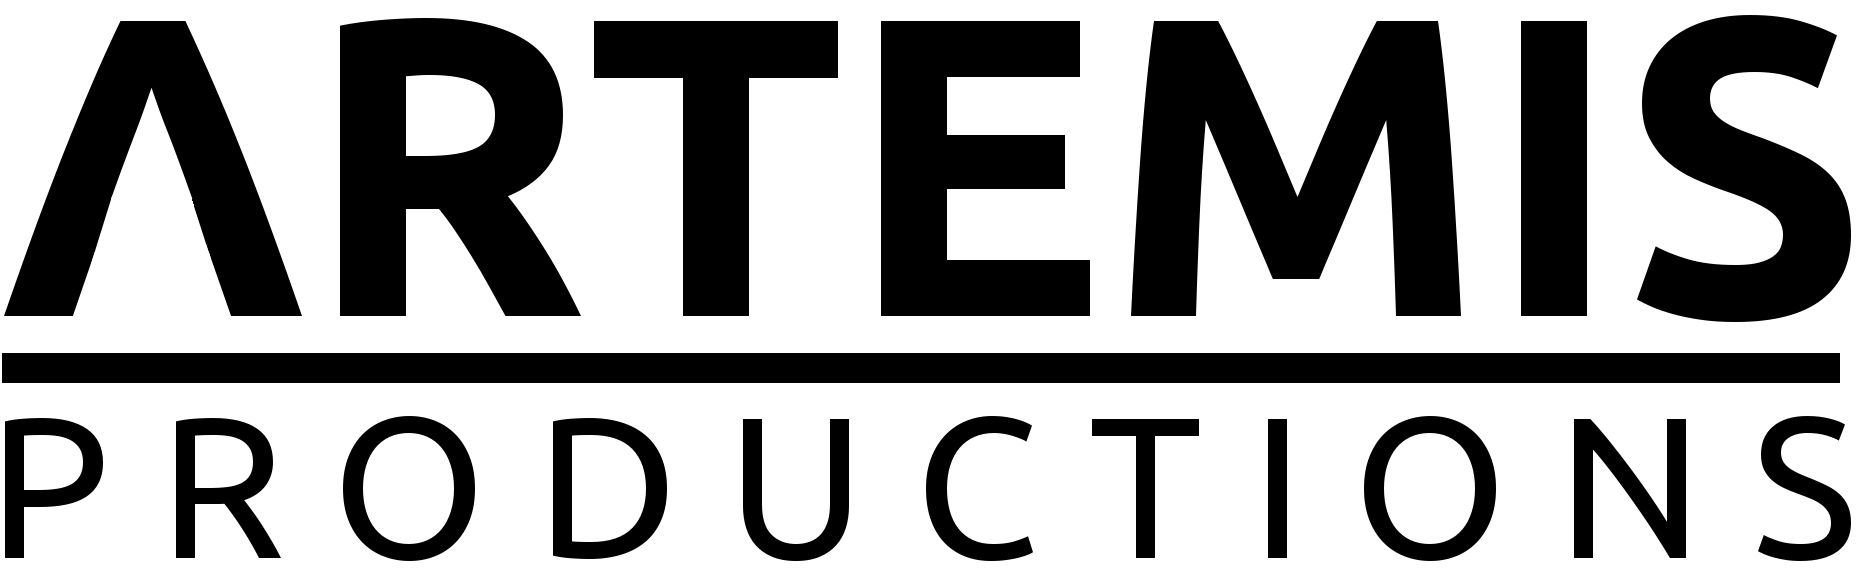
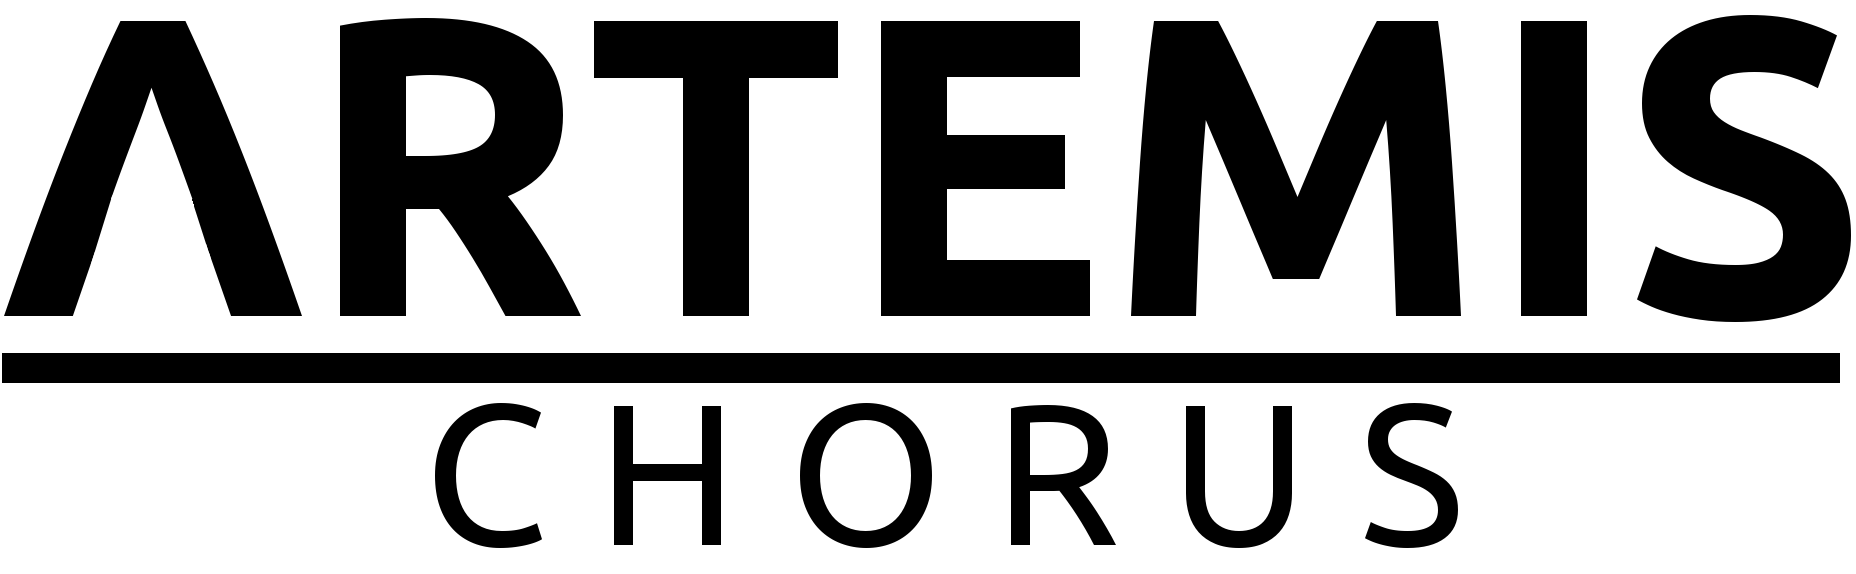
move to choir

diff --git a/_includes/header.html b/_includes/header.html
@@ -14,11 +14,8 @@
       </a>
 
       <div class="trigger">
-        {% for my_page in site.pages %}
-          {% if my_page.title %}
-          <a class="page-link" href="{{ my_page.url | prepend: site.baseurl }}">{{ my_page.title }}</a>
-          {% endif %}
-        {% endfor %}
+        <a class="page-link" href="/about">About</a>
+        <a class="page-link" href="/concerts">Concerts</a>
       </div>
     </nav>
 

diff --git a/css/main.scss b/css/main.scss
@@ -15,7 +15,7 @@ $base-line-height: 1.5;
 $spacing-unit:     30px;
 
 $text-color:       #111;
-$background-color: #fdfdfd;
+$background-color: #fcfcfc;
 $brand-color:      #2a7ae2;
 
 $grey-color:       #828282;

diff --git a/concerts/1.md b/concerts/1.md
@@ -1,0 +1,13 @@
+---
+layout: page
+title: The First Concert
+---
+
+## Program
+
+* Daniel Pinkham --- [*Easter Cantata - This is the day*](https://youtu.be/QV5JRnP49F0?t=40s)
+* Benjamin Britten --- [*Festival Te Deum*](https://www.youtube.com/watch?v=GDdJFW9DOHg)
+* Madison Scott-Clary --- [*I Live My Life*](https://soundcloud.com/drabmakyo/i-live-my-life)
+* Ildebrando Pizzetti --- [*De Profundis*](https://www.youtube.com/watch?v=cpGYzvrNjyM)
+* Imant Raminsh --- [*Ave Verum Corpus*](https://www.youtube.com/watch?v=wlX88zCizsA)
+* Norman Dello-Joio --- [*A Jubilant Song*](https://www.youtube.com/watch?v=L-Hknob7VaQ)

diff --git a/concerts/3.md b/concerts/3.md
@@ -1,0 +1,13 @@
+---
+layout: page
+title: The Third Concert
+---
+
+## Program
+
+* Luigi Dallapiccola --- [*Il Coro dei Malammogliati*](https://www.youtube.com/watch?v=aR-KgLzSZ5A)
+* Gabriel Swanson --- *Five Songs of Sappho*
+* Madison Scott-Clary --- [*I Often Wondered*](http://drab-makyo.com/sounds/choral/i-often-wondered/)
+* Orlando di Lasso --- [*Mon coeur se recommandé vous*](https://www.youtube.com/watch?v=QK0KKj_vaOY)
+* Madison Scott-Clary --- *Little Eclogue*
+* Arnold Schoenberg --- [*Friede auf Erden*](https://www.youtube.com/watch?v=xf8sqv6Gyz0)

diff --git a/concerts/index.md b/concerts/index.md
@@ -1,0 +1,12 @@
+---
+layout: page
+title: Concerts
+---
+
+ARTEMIS performs three formal concerts per season: an autumn concert focusing on sacred music, a winter concert series focusing on contemporary and classical holiday music performed free of charge around town, and a spring concert focusing on secular music. There will be additional performances in the summer as scheduling allows.
+
+* 20XX
+    * [The First Concert](1)
+    * [The Second Concert](2)
+    * [The Third Concert](3)
+* [Notes for the future](future-works)

diff --git a/about.md b/about.md
@@ -4,6 +4,6 @@ title: About
 permalink: /about/
 ---
 
-ARTEMIS PRODUCTIONS is a small group producing wines, meads, beers, spirits, and words somewhere in Colorado.
+ARTEMIS is a chorus in the Seattle area with a focus on contemporary music. It is directed by Madison Scott-Clary, and is structured to be a welcoming musical space for queer folks.
 
 Artemis is the goddess of the hunt, of animals and wilderness, of the moon and archery.

diff --git a/concerts/future-works.md b/concerts/future-works.md
@@ -1,0 +1,16 @@
+---
+layout: page
+title: Future works to consider
+---
+
+* Frank Martin --- Mass for double choir
+* Frank Martin --- Five songs of Ariel
+* Ildebrando Pizzetti --- Messa di Requiem
+* Rheinberger --- Messe in Es
+* Claudio Montiverdi --- Sestina
+* Ruth Watson --- Missa Brevis
+
+## Future projects
+
+* Composition competition
+* Flash concerts

diff --git a/concerts/2.md b/concerts/2.md
@@ -1,0 +1,10 @@
+---
+layout: page
+title: The Second Concert
+---
+
+## Program
+
+* Theron Kirk --- [*Sing we Noel, Noel*](https://www.youtube.com/watch?v=rid8DvZA-3g)
+* Jean Sibelius --- [*En Etsi Valtaa Loistoa*](https://www.youtube.com/watch?v=ggpew-i5hSs)
+* Eric Whitacre --- [*Lux Aurumque*](https://www.youtube.com/watch?v=0j2JRcC6wBs)
